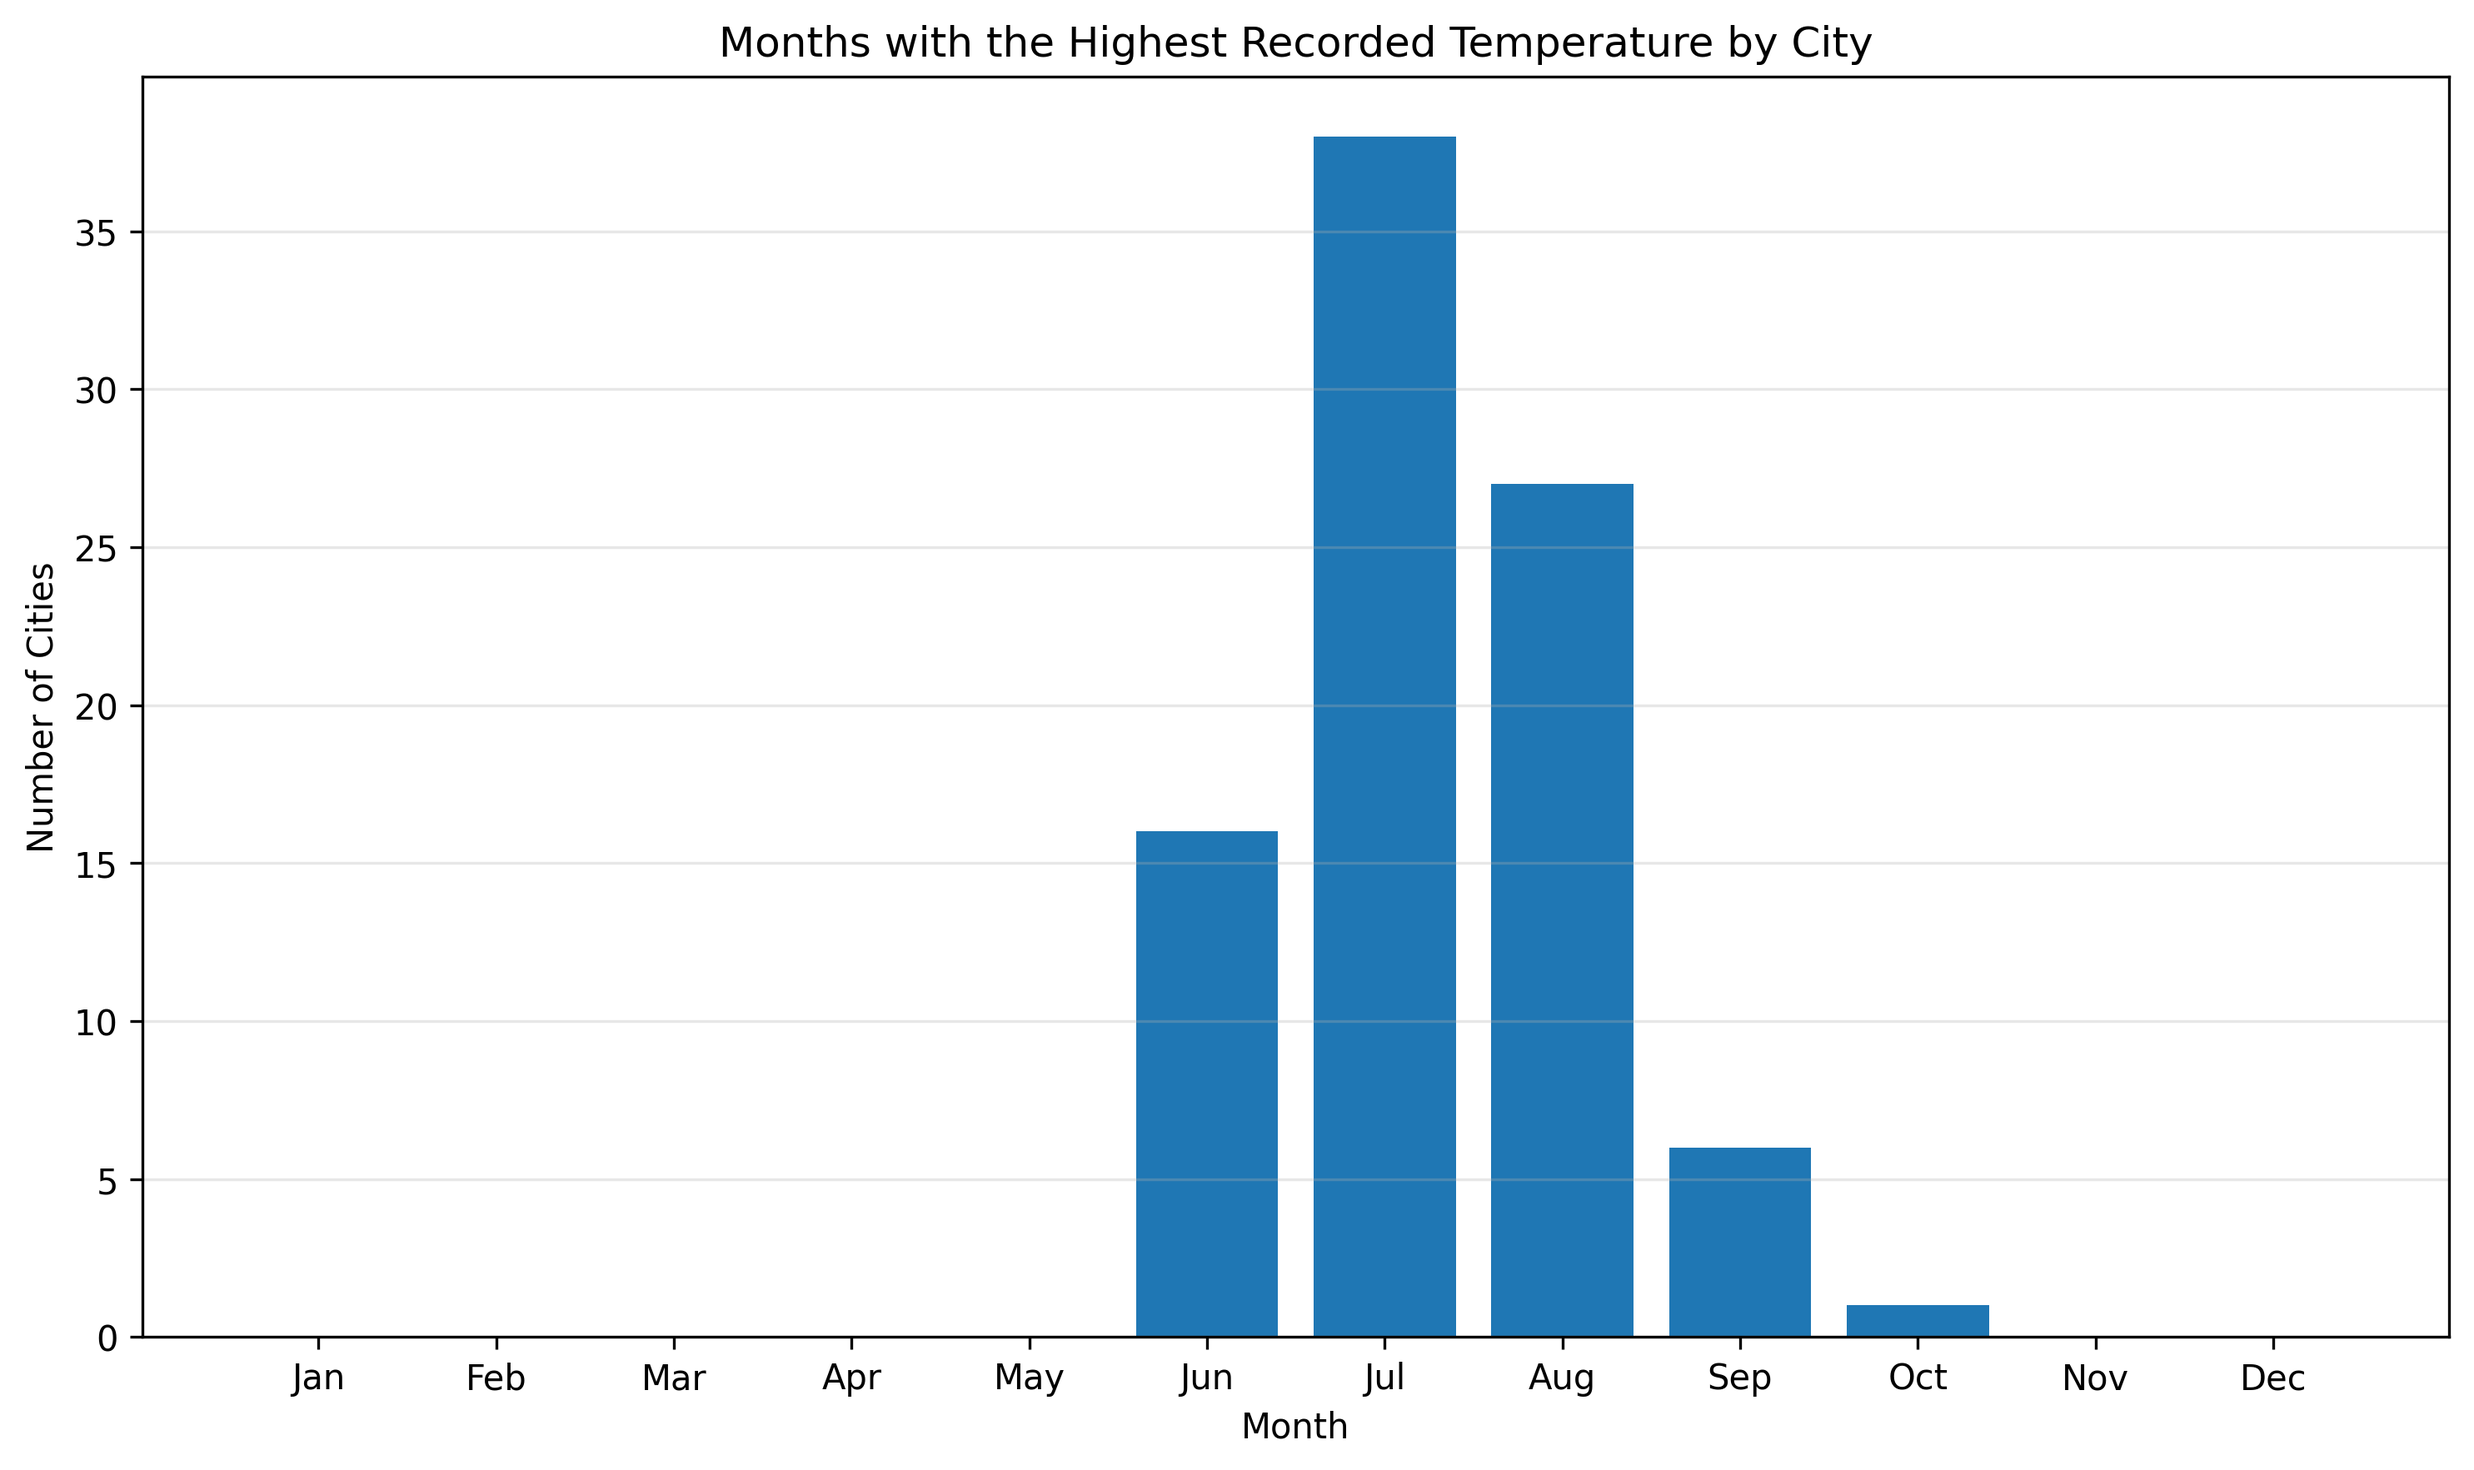
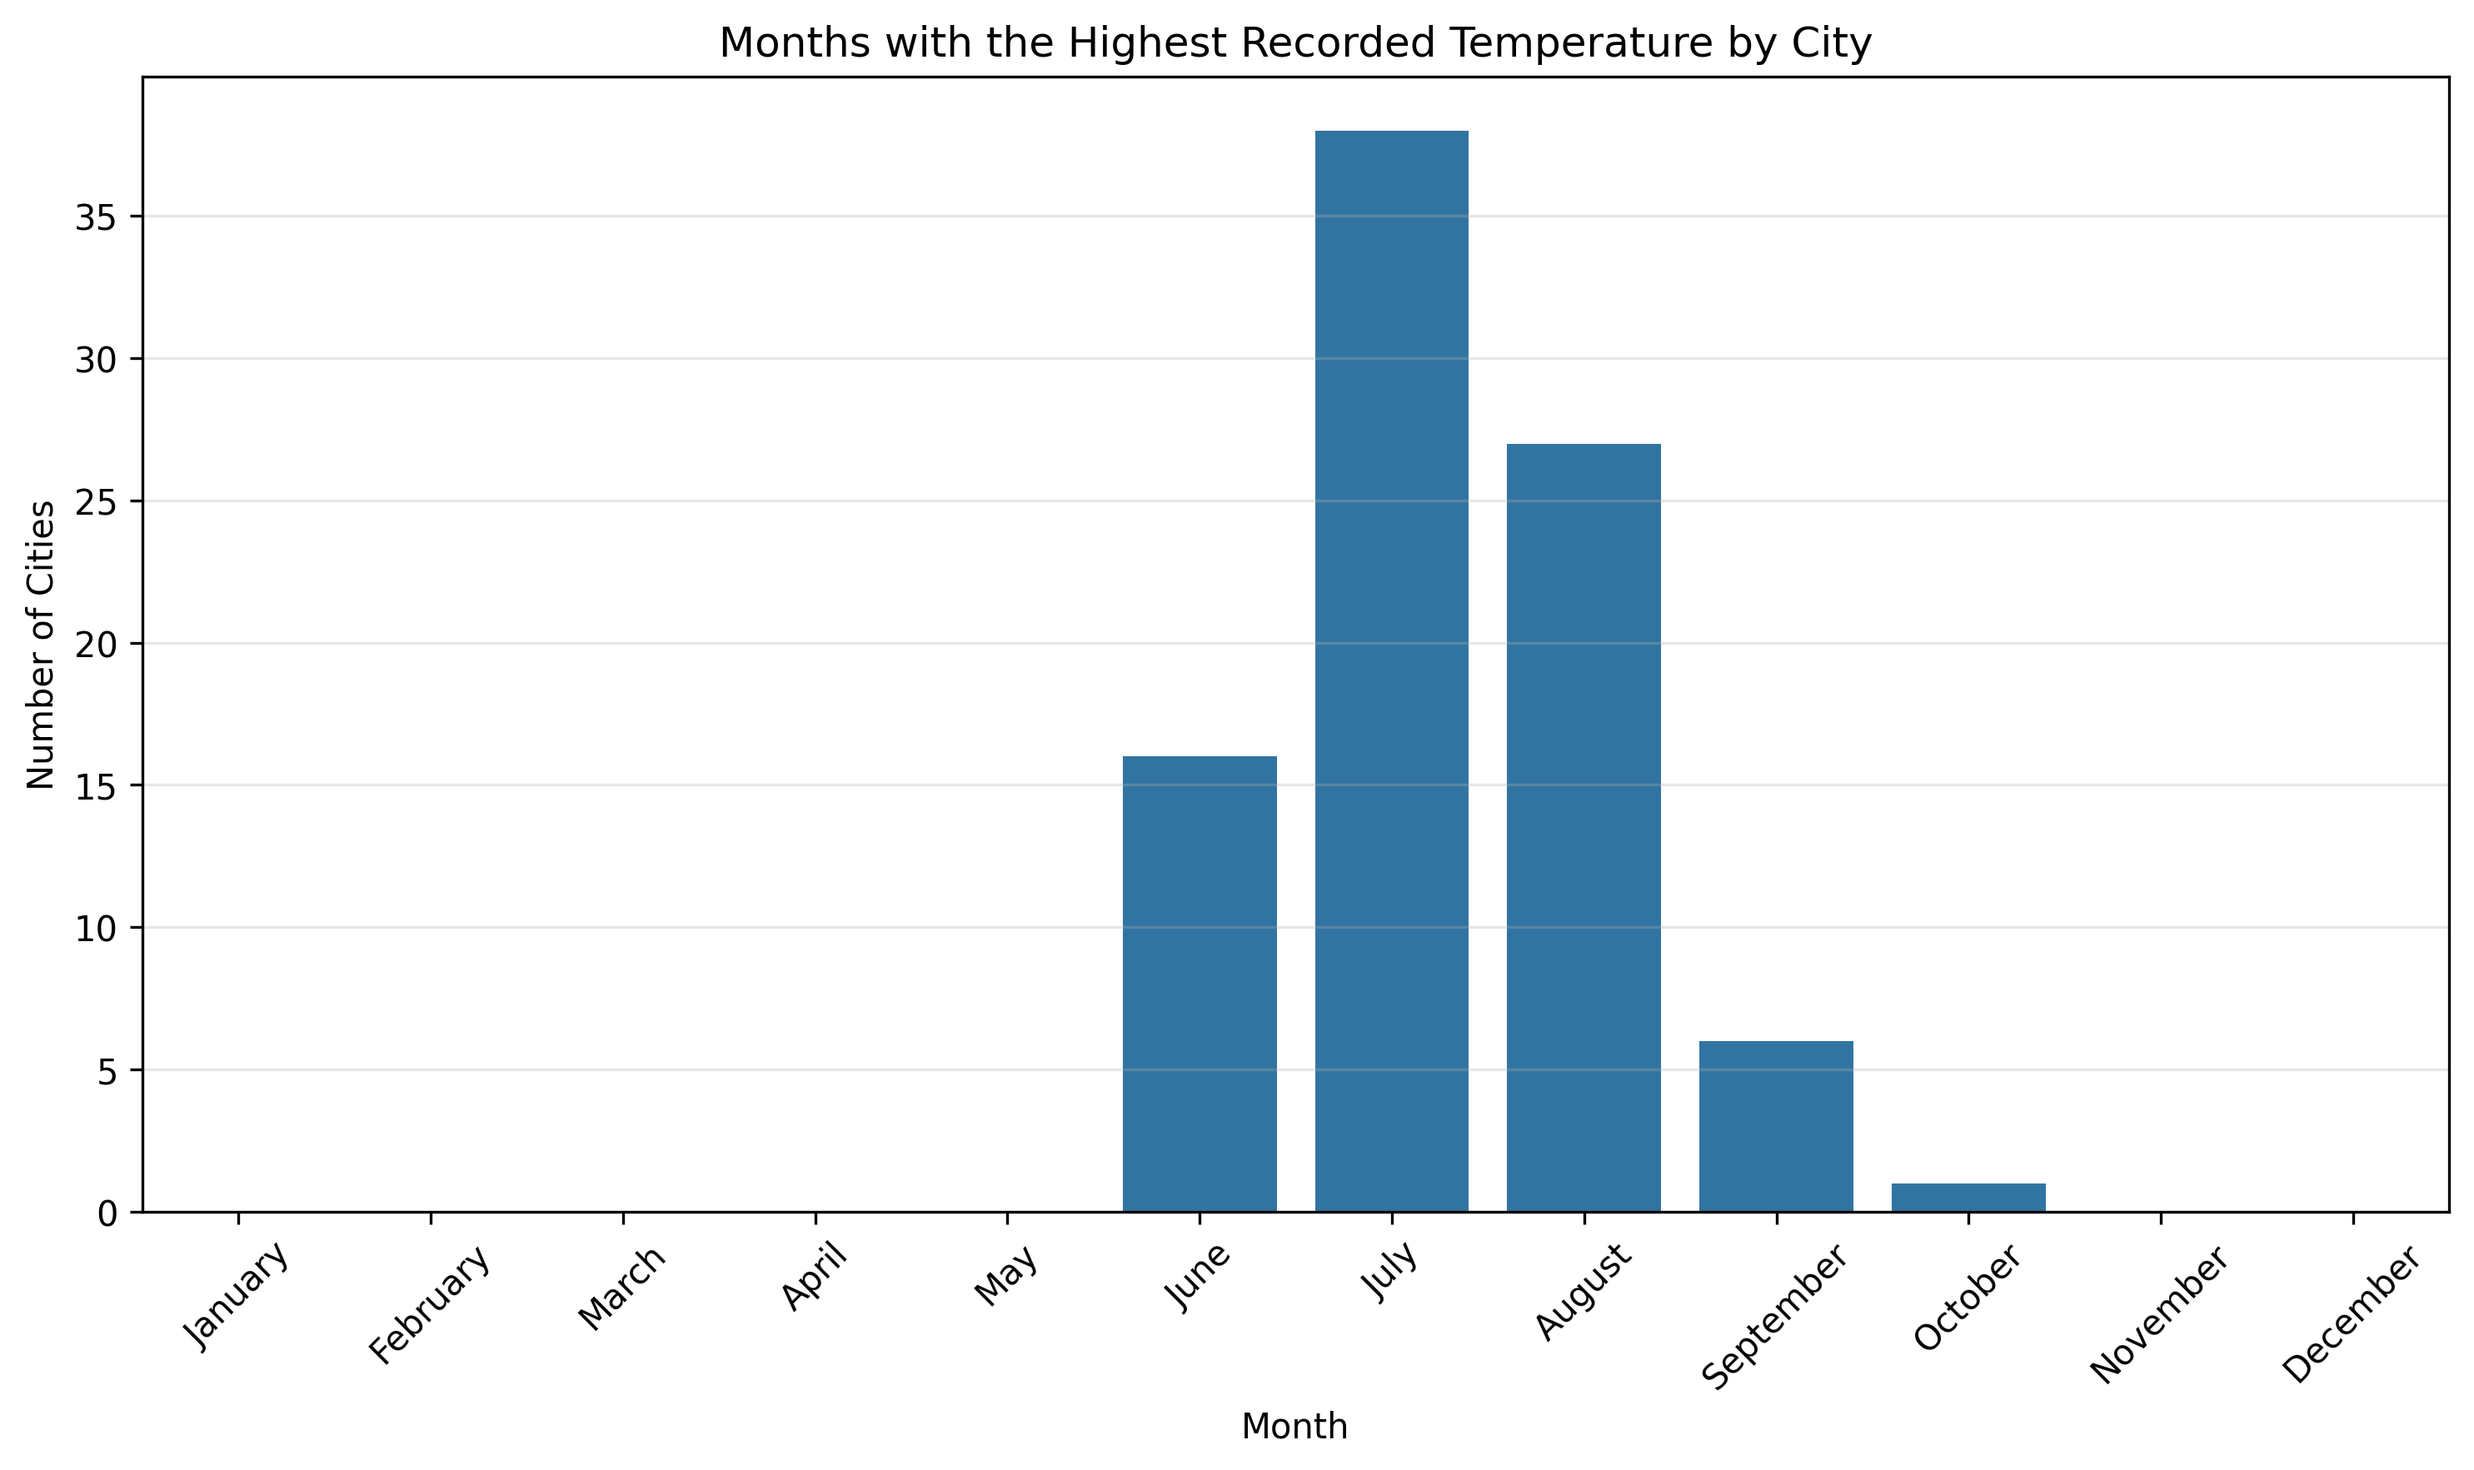
images added

diff --git a/HW4/HW4.py b/HW4/HW4.py
@@ -62,6 +62,7 @@ plt.xticks(rotation=45)
 plt.grid(axis="y", alpha=0.3)
 plt.tight_layout()
 
+plt.savefig("q1_temperature_5cities.png", dpi=300, bbox_inches="tight")
 plt.show()
 
 # Check that the data loaded correctly

diff --git a/HW4/Chart2.py b/HW4/Chart2.py
@@ -68,4 +68,5 @@ plt.xticks(rotation=45)
 plt.grid(axis="y", alpha=0.3)
 plt.tight_layout()
 
+plt.savefig("q2_highest_month_counts.png", dpi=300, bbox_inches="tight")
 plt.show()
